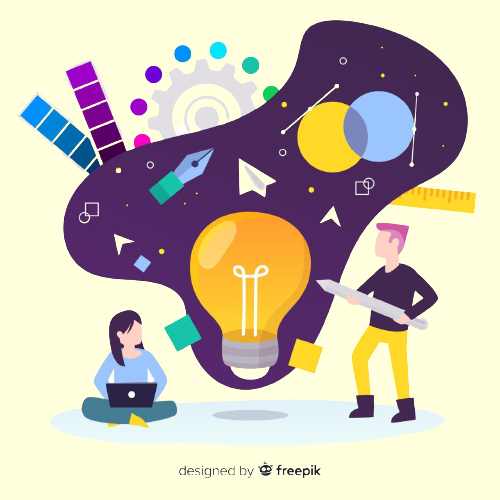
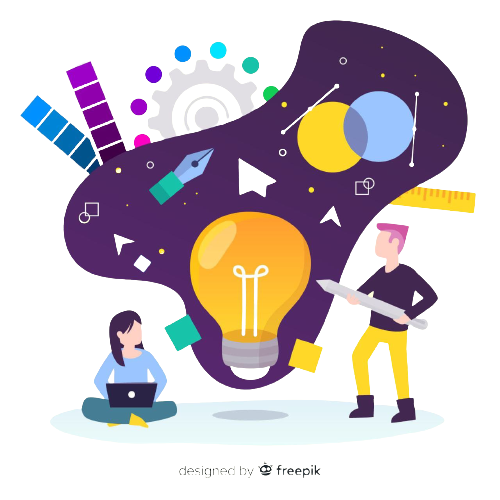
new designs

diff --git a/michael/templates/michael/index.html b/michael/templates/michael/index.html
@@ -66,7 +66,7 @@
     </div>
 
     {% block content %}
-    <div class="row align-items-center justify-content-center home" style="">
+    <div class="row align-items-center justify-content-center home py-md-5" style="">
 
       <div class="col-sm-5 py-xs-5 p-md-0 my-5 my-md-0 homeMessage text-left animate__animated animate__fadeInLeft animate__slower">
         <h1 class="w-100 text-uppercase text-md-left clipmask_big ">ClipMask</h1>
@@ -78,7 +78,7 @@
 
 
       <div class="col-sm-5 col-md-5 animate__animated animate__fadeInDown animate__slower mt-3">
-        <img src="{% static 'michael/hung1-removebg-preview.png' %}" class="w-100 w-sm-100 img-fluid img-responsive"></img>
+        <img src="{% static 'michael/hung1-removebg-preview.png' %}" class="img-fluid img-responsive"></img>
 
       </div>
 
@@ -91,6 +91,9 @@
   <!-- <div class="row align-items-center justify-content-center my-5 py-5"> -->
     <div class="container clipmask my-5 py-5">
       <div class="row align-items-center justify-content-center">
+        <div class="col-sm-4">
+          <img src="{% static 'michael/man-sitting.png' %}" class="img_resp"></img>
+        </div>
         <div class="col-sm-5">
           <div class="clip_h3_div text-center text-md-left">
             <h3 class=" text-black">ClipMask</h3>
@@ -99,9 +102,7 @@
 
 
         </div>
-        <div class="col-sm-4">
-          <img src="{% static 'michael/man-sitting.png' %}" class="img_resp"></img>
-        </div>
+        
 
       </div>
     </div>

diff --git a/static/michael/index.css b/static/michael/index.css
@@ -28,7 +28,7 @@
     background-position: right;
     background-repeat: no-repeat;
     background-size: cover;
-    background-color: var(--black);
+    /* background-color: var(--black); */
     
     /* color: var(--yellow); */
  
@@ -171,6 +171,7 @@
     .clipmask_big{
         font-weight: 600;
         color: #ffd000;
+        font-size: 2rem;
     }
 
 }
